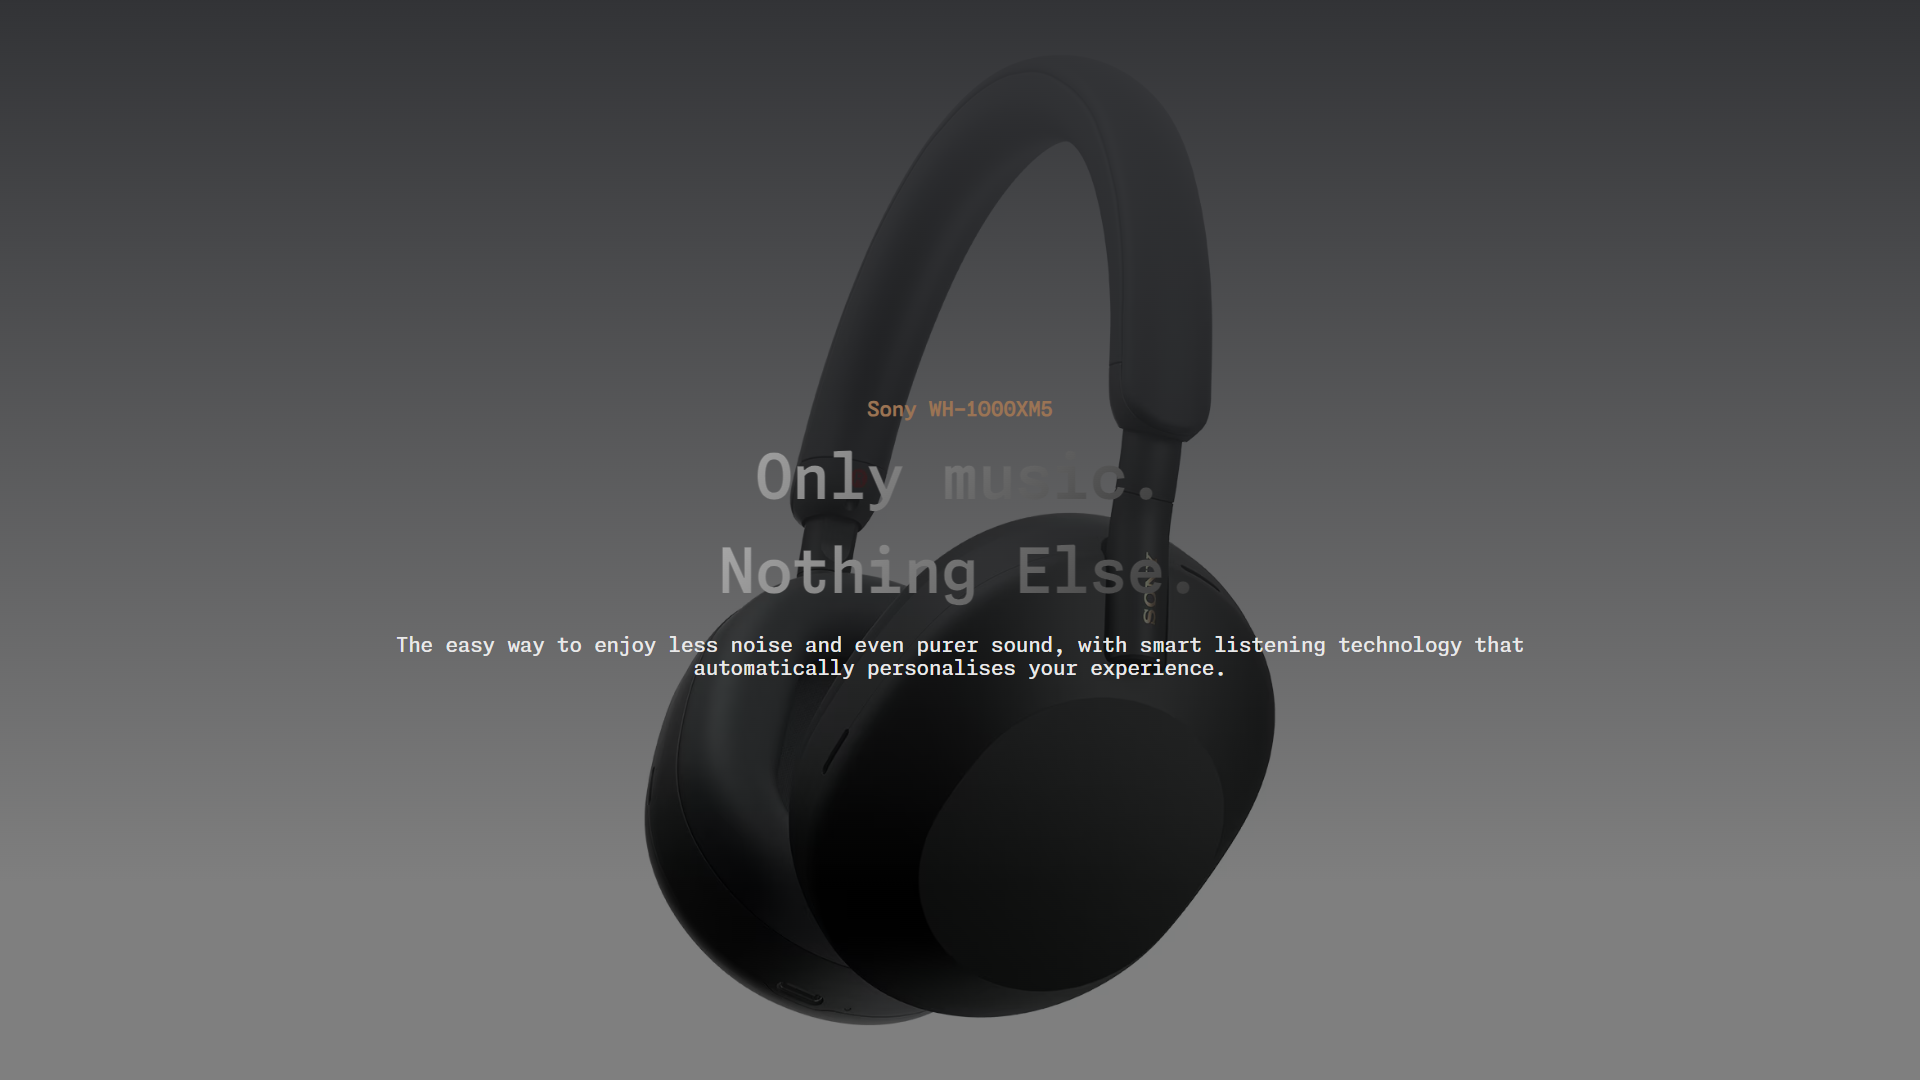
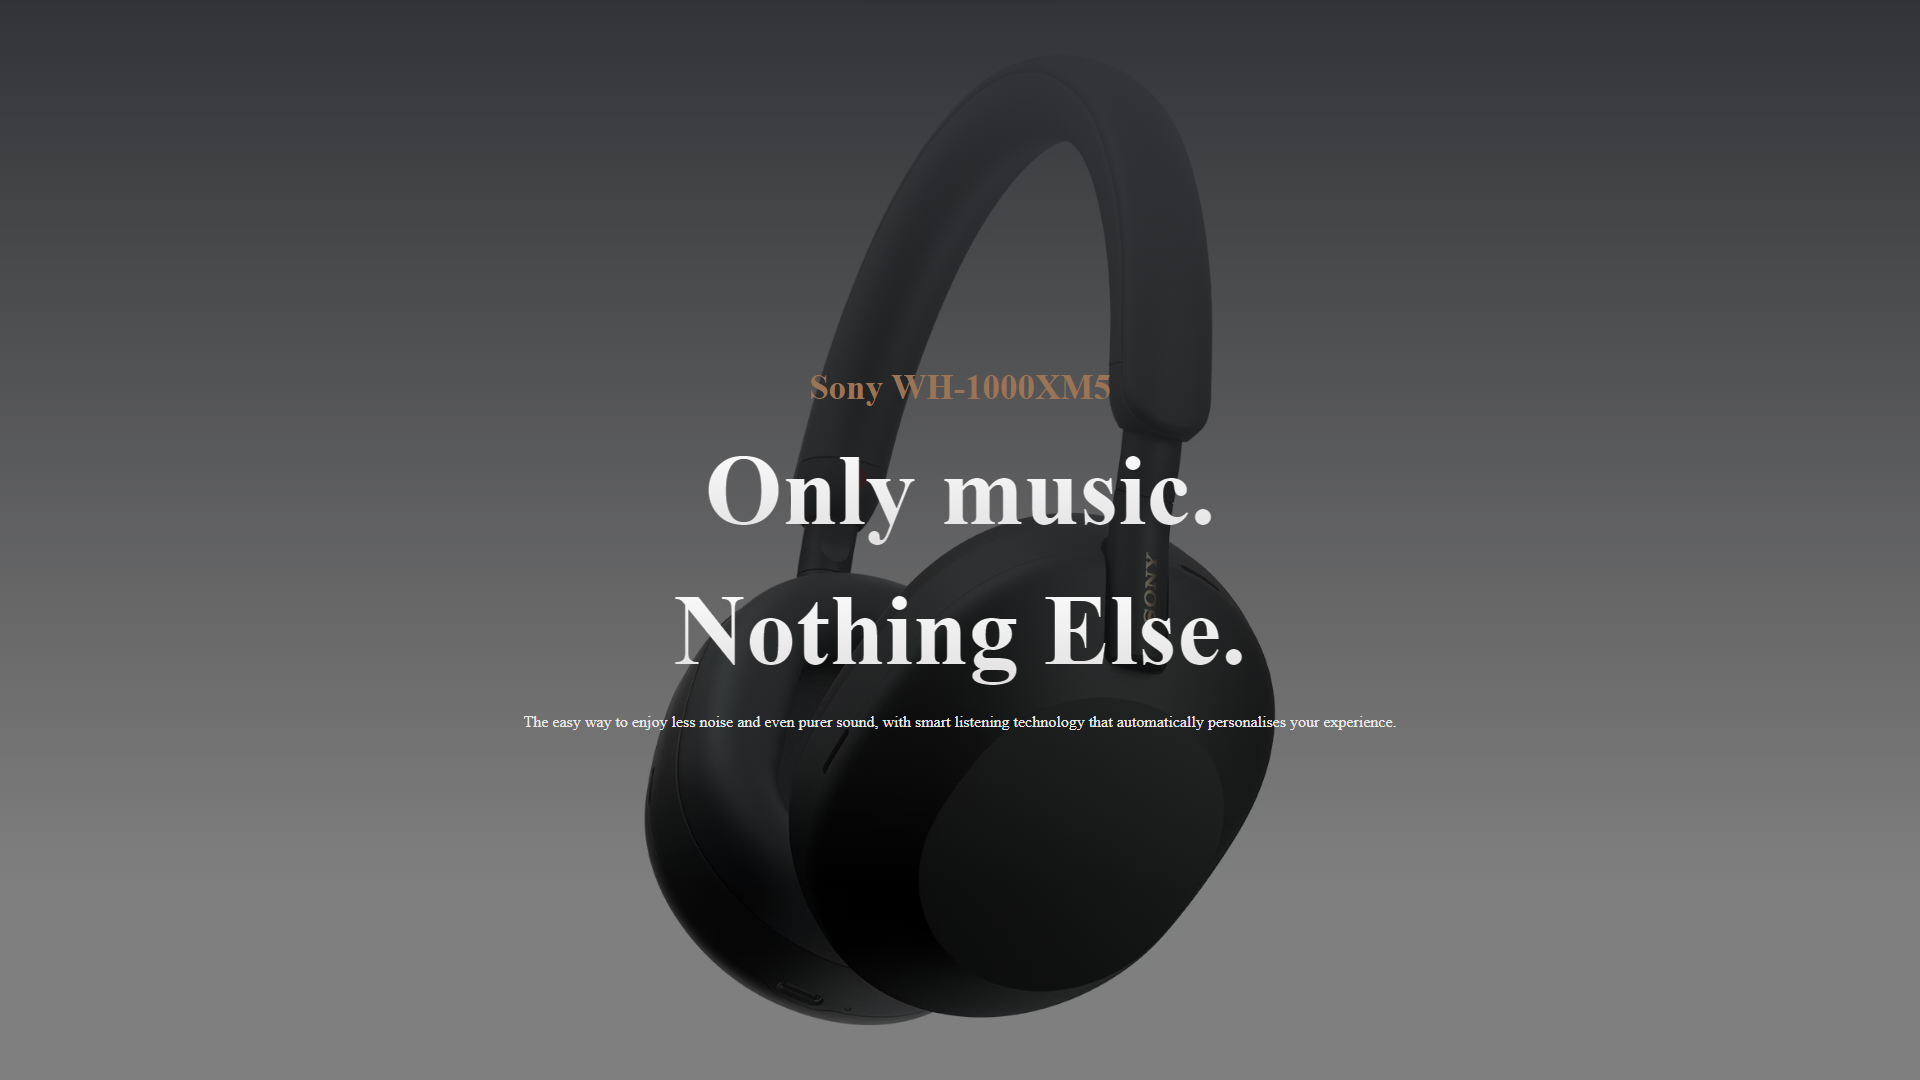
pequeña animacion

Changed region(s): [[0.2188, 0.3972, 0.7812, 0.6722], [0.4062, 0.3361, 0.5938, 0.3972]]

diff --git a/02WH-1000XM5/build/css/app.css b/02WH-1000XM5/build/css/app.css
@@ -313,6 +313,12 @@ template {
 @font-face {
   font-family: "Neon";
   src: url(../../../assets/fonts/MonaspaceNeon-Regular.woff);
+  font-weight: 400;
+}
+@font-face {
+  font-family: "Neon";
+  src: url(../../../assets/fonts/MonaspaceNeon-ExtraBold.woff);
+  font-weight: 900;
 }
 html {
   box-sizing: border-box;
@@ -371,7 +377,6 @@ ul {
 h1,
 h2,
 h3 {
-  font-weight: 900;
   text-align: center;
   margin: 2.5rem 0;
 }
@@ -386,10 +391,6 @@ h2 {
 
 h3 {
   font-size: 2.8rem;
-}
-
-p {
-  font-size: 2rem;
 }
 
 img {
@@ -419,28 +420,40 @@ body {
   color: #9a7454;
   text-align: center;
   font-weight: bold;
+  font-size: 2.5rem;
   margin-bottom: -2rem;
 }
 @media (min-width: 768px) {
   .hero .model {
     margin-bottom: 2.25rem;
+    font-size: 3.5rem;
   }
 }
-.hero h1 {
+.hero .title {
   color: transparent;
   font-size: 6rem;
+  font-weight: 800;
   text-align: center;
   margin: 2.5rem 0;
   animation: fluido 20s ease-in-out infinite;
-  background: linear-gradient(-45deg, #323336, #FFFFFF, #000000, #323336);
+  background: linear-gradient(-45deg, #323336, #ffffff, #000000, #323336);
+  background: linear-gradient(180deg, #fff, #e1dfdf);
   background-size: 300%;
   -webkit-background-clip: text;
   background-clip: text;
   -webkit-text-fill-color: transparent;
 }
 @media (min-width: 768px) {
-  .hero h1 {
-    font-size: 6rem;
+  .hero .title {
+    font-size: 8rem;
+  }
+}
+@media (min-width: 1024px) {
+  .hero .title {
+    font-size: 10rem;
+  }
+  .hero .title p {
+    font-size: 20rem;
   }
 }
 @keyframes fluido {

diff --git a/02WH-1000XM5/assets/sass/components/_header.scss b/02WH-1000XM5/assets/sass/components/_header.scss
@@ -29,25 +29,36 @@ body {
     color: v.$brown;
     text-align: center;
     font-weight: bold;
+    font-size: 2.5rem;
+
     margin-bottom: -2rem;
     @include m.tablet {
       margin-bottom: 2.25rem;
+      font-size: 3.5rem;
     }
   }
-  h1 {
+  .title {
     color: transparent;
     font-size: 6rem;
+    font-weight: 800;
     text-align: center;
     margin: calc(v.$separator / 2) 0;
     animation: fluido 20s ease-in-out infinite;
-    background: linear-gradient(-45deg, #323336, #FFFFFF, #000000, #323336);
+    background: linear-gradient(-45deg, #323336, #ffffff, #000000, #323336);
+    background: linear-gradient(180deg, #fff, #e1dfdf);
     background-size: 300%;
     -webkit-background-clip: text;
     background-clip: text;
     -webkit-text-fill-color: transparent;
 
     @include m.tablet {
-      font-size: 6rem;
+      font-size: 8rem;
+    }
+    @include m.desktop {
+      font-size: 10rem;
+      p{
+        font-size: 20rem;
+      }
     }
     @keyframes fluido {
       0% {

diff --git a/02WH-1000XM5/index.html b/02WH-1000XM5/index.html
@@ -5,10 +5,11 @@
     <meta name="viewport" content="width=device-width, initial-scale=1.0" />
     <title>WH-1000XM5</title>
     <link rel="stylesheet" href="./build/css/app.css" />
+    <link rel="stylesheet" href="https://cdn.jsdelivr.net/npm/@animxyz/core" />
   </head>
   <body>
     <div class="hero">
-      <div class="container">
+      <div class="container xyz-in" xyz="fade up big" >
         <p class="model">Sony WH-1000XM5</p>
         <h1 class="title">Only music.</h1>
         <h1 class="title">Nothing Else.</h1>

diff --git a/02WH-1000XM5/assets/sass/general/_variables.scss b/02WH-1000XM5/assets/sass/general/_variables.scss
@@ -23,6 +23,13 @@ $separator: 5rem;
 @font-face {
     font-family: 'Neon';
     src: url(../../../assets/fonts/MonaspaceNeon-Regular.woff);
+    font-weight: 400;
+}
+
+@font-face {
+    font-family: 'Neon';
+    src: url(../../../assets/fonts/MonaspaceNeon-ExtraBold.woff);
+    font-weight: 900;
 }
 
 $global-font: "Neon";

diff --git a/02WH-1000XM5/assets/sass/general/_global.scss b/02WH-1000XM5/assets/sass/general/_global.scss
@@ -58,7 +58,6 @@ ul {
 h1,
 h2,
 h3 {
-  font-weight: 900;
   text-align: center;
   margin: calc(v.$separator / 2) 0;
 }
@@ -73,10 +72,6 @@ h2 {
 
 h3 {
   font-size: 2.8rem;
-}
-
-p {
-  font-size: 2rem;
 }
 
 img {
